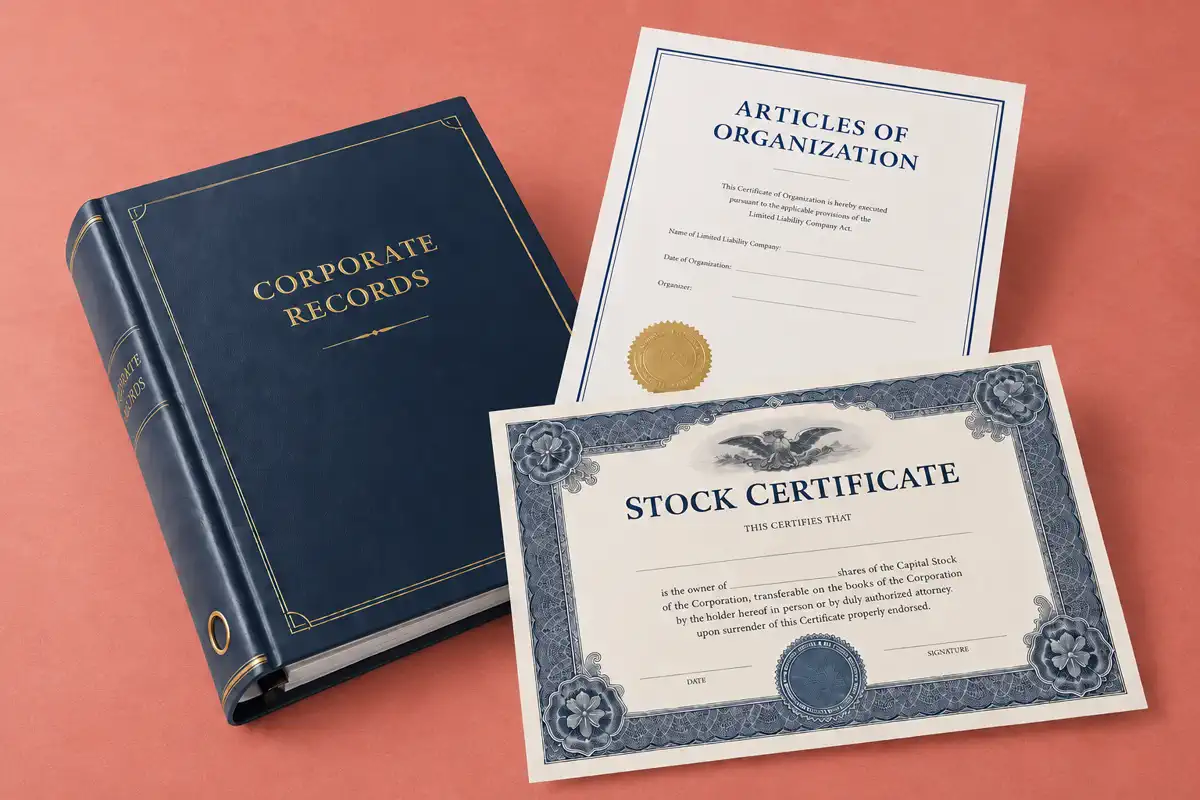
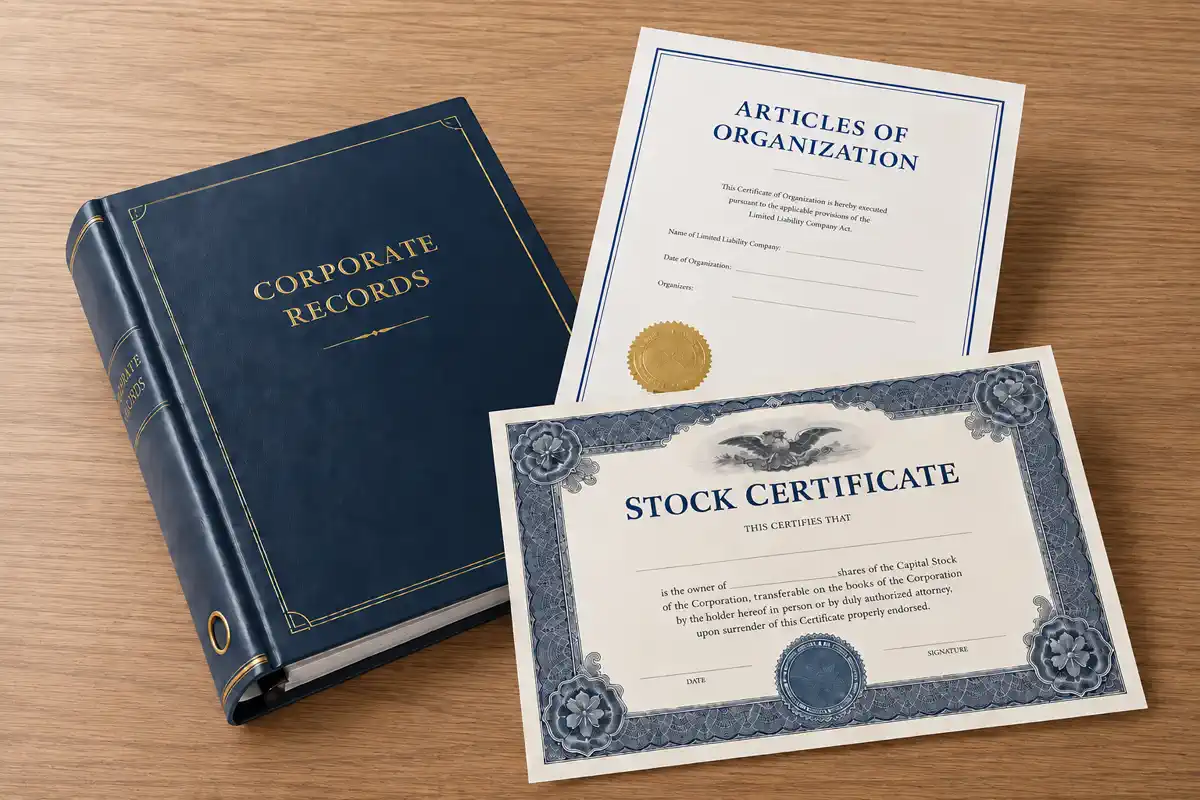
Use natural wood hero background

diff --git a/llc-formation.html b/llc-formation.html
@@ -61,7 +61,7 @@
     <section class="approved-body" aria-label="LLC formation services">
       <img src="/llc-formation-body.webp" width="1586" height="1694" alt="USA Business Access LLC formation services, benefits, process, and frequently asked questions">
       <div class="hero-crossfade" aria-label="LLC formation documents">
-        <img class="hero-crossfade-slide hero-crossfade-second" src="/llc-corporate-records-hero.webp?v=coral1" alt="Articles of Organization, stock certificate, and professional corporate records binder">
+        <img class="hero-crossfade-slide hero-crossfade-second" src="/llc-corporate-records-hero.webp?v=wood1" alt="Articles of Organization, stock certificate, and professional corporate records binder">
       </div>
       <a class="body-hotspot start" href="/#contact"><span class="sr-only">Start Your LLC</span></a>
       <a class="body-hotspot consult" href="/#contact"><span class="sr-only">Schedule a Consultation</span></a>
